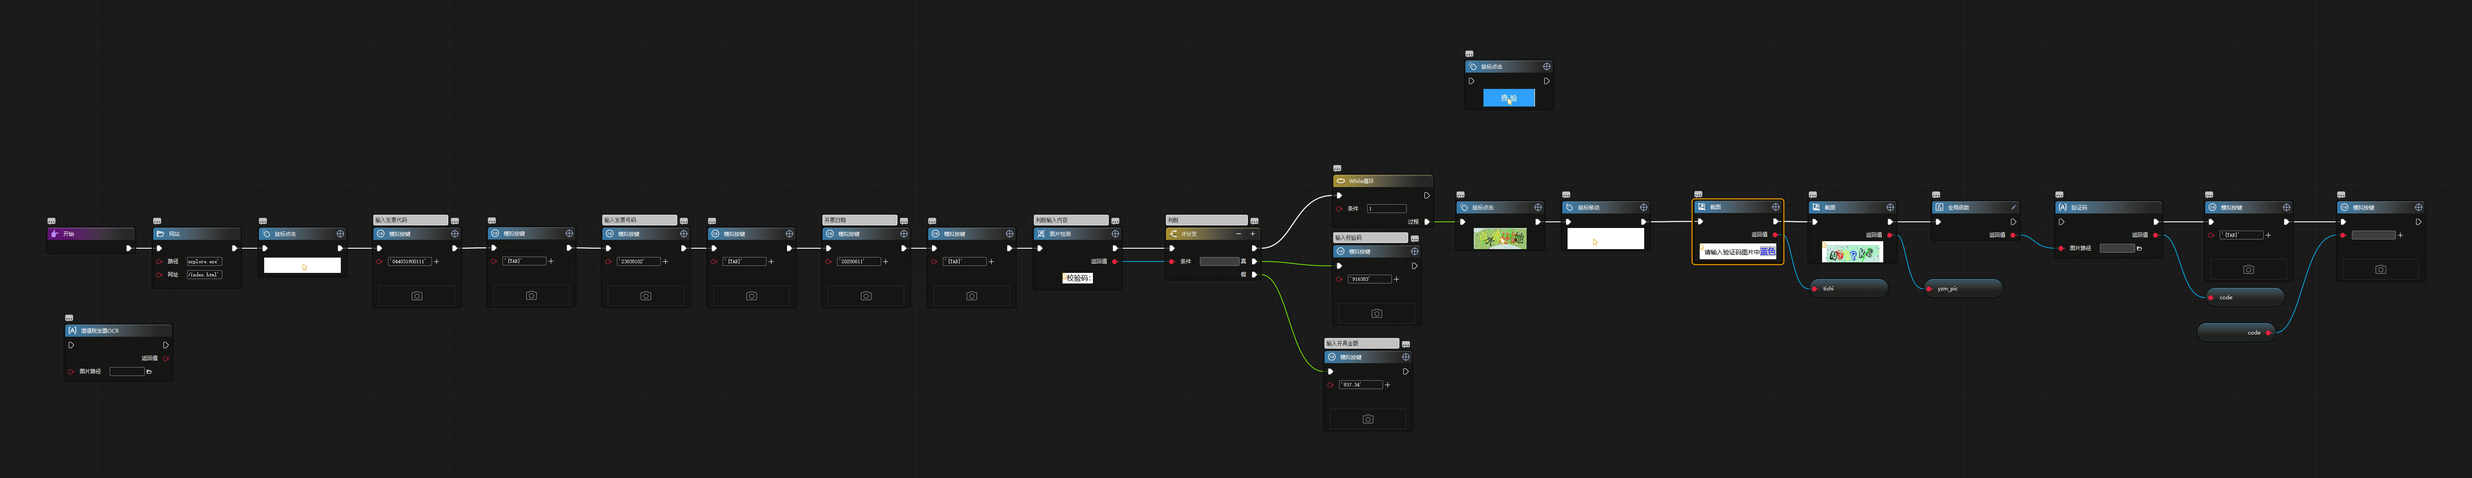
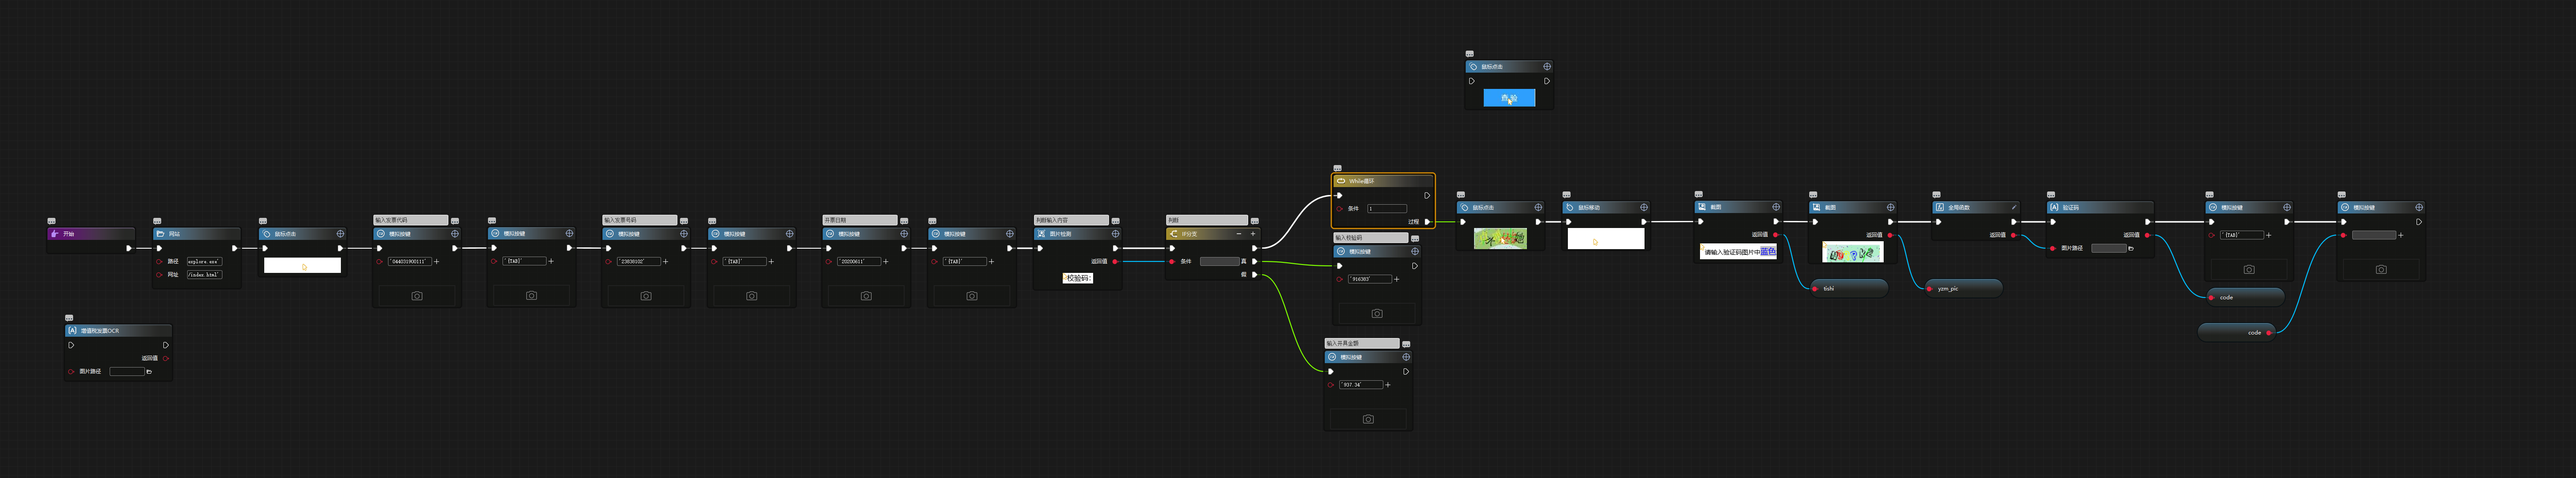
20200623152408

diff --git a/codes/Main.py b/codes/Main.py
@@ -1,5 +1,5 @@
 # coding=utf-8
-# 编译日期：2020-06-23 15:22:34
+# 编译日期：2020-06-23 15:24:07
 # 版权所有：www.i-search.com.cn
 import time
 import pdb
@@ -12,6 +12,8 @@ from ubpa.itools import rpa_import
 GlobalFun = rpa_import.import_global_fun(__file__)
 import ubpa.iie as iie
 import ubpa.iimg as iimg
+import ubpa.ikeyboard as ikeyboard
+import ubpa.iocr as iocr
 
 class lanhe_fapiao:
      
@@ -36,18 +38,42 @@ class lanhe_fapiao:
         code=None
         yzm_pic=None
         tishi=None
-        #RPACodeMarked.....2314353040452
-        # 截图
-        self.__logger.debug('Flow:flow1,StepNodeTag:2314353040452,Note:')
-        tishi = iimg.capture_image(win_title=r'国家税务总局全国增值税发票查验平台 - Internet Explorer',win_text=r'',left_indent=1253,top_indent=572,width=210,height=36,waitfor=30)
-        time.sleep(0.8)
-        # 截图
-        self.__logger.debug('Flow:flow1,StepNodeTag:2314360485954,Note:')
-        yzm_pic = iimg.capture_image(win_title=r'国家税务总局全国增值税发票查验平台 - Internet Explorer',win_text=r'',left_indent=992,top_indent=620,width=139,height=64,waitfor=30)
-        time.sleep(0.8)
-        # 自定义函数
-        self.__logger.debug('Flow:flow1,StepNodeTag:2314544729489,Note:')
-        tvar2314593469491 = GlobalFun.code_color(tishi,yzm_pic)
+        #RPACodeMarked.....2314350501348
+        # While循环
+        self.__logger.debug('Flow:flow1,StepNodeTag:2314350501348,Note:')
+        while 1:
+            # 鼠标点击
+            self.__logger.debug('Flow:flow1,StepNodeTag:23151109681113,Note:')
+            time.sleep(0.5)
+            iie.do_click_pos(win_title=r'国家税务总局全国增值税发票查验平台 - Internet Explorer',url=r'https://inv-veri.chinatax.gov.cn/index.html',selector=r'#yzm_img',button=r'left',curson=r'center',times=1,run_mode=r'unctrl',continue_on_error=r'break',waitfor=10)
+            time.sleep(0.5)
+            # 鼠标移动
+            self.__logger.debug('Flow:flow1,StepNodeTag:23151501542118,Note:')
+            iie.do_moveto_pos(win_title=r'国家税务总局全国增值税发票查验平台 - Internet Explorer',url=r'https://inv-veri.chinatax.gov.cn/index.html',selector=r'#content2 > TABLE:nth-of-type(1) > TBODY:nth-of-type(1) > TR:nth-of-type(6) > TD:nth-of-type(1)',curson=r'center',waitfor=10)
+            time.sleep(5)
+            # 截图
+            self.__logger.debug('Flow:flow1,StepNodeTag:2314353040452,Note:')
+            tishi = iimg.capture_image(win_title=r'国家税务总局全国增值税发票查验平台 - Internet Explorer',win_text=r'',left_indent=1253,top_indent=572,width=210,height=36,waitfor=30)
+            time.sleep(0.8)
+            # 截图
+            self.__logger.debug('Flow:flow1,StepNodeTag:2314360485954,Note:')
+            yzm_pic = iimg.capture_image(win_title=r'国家税务总局全国增值税发票查验平台 - Internet Explorer',win_text=r'',left_indent=992,top_indent=620,width=139,height=64,waitfor=30)
+            time.sleep(0.8)
+            # 自定义函数
+            self.__logger.debug('Flow:flow1,StepNodeTag:2314544729489,Note:')
+            tvar2314544729489 = GlobalFun.code_color(tishi,yzm_pic)
+            #验证码
+            self.__logger.debug('Flow:flow1,StepNodeTag:2314593469491,Note:')
+            code = iocr.vcode_recognize(image_path=tvar2314544729489,code_type=8001,apiKey='8159a500cc9d4a69a71e6ac14263f029',secretKey='2d078aa8c13741239b3d00ced85832e3')
+            time.sleep(1)
+            # 键盘输入
+            self.__logger.debug('Flow:flow1,StepNodeTag:23150732813107,Note:')
+            time.sleep(0.5)
+            ikeyboard.key_send_cs(text='{TAB}',waitfor=10)
+            # 键盘输入
+            self.__logger.debug('Flow:flow1,StepNodeTag:23150746702109,Note:')
+            time.sleep(0.5)
+            ikeyboard.key_send_cs(text=code,waitfor=10)
       
     def Main(self):
         pass

diff --git a/codes/Main_d.py b/codes/Main_d.py
@@ -1,5 +1,5 @@
 # coding=utf-8
-# 编译日期：2020-06-23 15:22:34
+# 编译日期：2020-06-23 15:24:07
 # 版权所有：www.i-search.com.cn
 import time
 import pdb
@@ -12,6 +12,8 @@ from ubpa.itools import rpa_import
 GlobalFun = rpa_import.import_global_fun(__file__)
 import ubpa.iie as iie
 import ubpa.iimg as iimg
+import ubpa.ikeyboard as ikeyboard
+import ubpa.iocr as iocr
 
 class lanhe_fapiao:
      
@@ -36,18 +38,42 @@ class lanhe_fapiao:
         code=None
         yzm_pic=None
         tishi=None
-        #RPACodeMarked.....2314353040452
-        # 截图
-        self.__logger.debug('Flow:flow1,StepNodeTag:2314353040452,Note:')
-        tishi = iimg.capture_image(win_title=r'国家税务总局全国增值税发票查验平台 - Internet Explorer',win_text=r'',left_indent=1253,top_indent=572,width=210,height=36,waitfor=30)
-        time.sleep(0.8)
-        # 截图
-        self.__logger.debug('Flow:flow1,StepNodeTag:2314360485954,Note:')
-        yzm_pic = iimg.capture_image(win_title=r'国家税务总局全国增值税发票查验平台 - Internet Explorer',win_text=r'',left_indent=992,top_indent=620,width=139,height=64,waitfor=30)
-        time.sleep(0.8)
-        # 自定义函数
-        self.__logger.debug('Flow:flow1,StepNodeTag:2314544729489,Note:')
-        tvar2314593469491 = GlobalFun.code_color(tishi,yzm_pic)
+        #RPACodeMarked.....2314350501348
+        # While循环
+        self.__logger.debug('Flow:flow1,StepNodeTag:2314350501348,Note:')
+        while 1:
+            # 鼠标点击
+            self.__logger.debug('Flow:flow1,StepNodeTag:23151109681113,Note:')
+            time.sleep(0.5)
+            iie.do_click_pos(win_title=r'国家税务总局全国增值税发票查验平台 - Internet Explorer',url=r'https://inv-veri.chinatax.gov.cn/index.html',selector=r'#yzm_img',button=r'left',curson=r'center',times=1,run_mode=r'unctrl',continue_on_error=r'break',waitfor=10)
+            time.sleep(0.5)
+            # 鼠标移动
+            self.__logger.debug('Flow:flow1,StepNodeTag:23151501542118,Note:')
+            iie.do_moveto_pos(win_title=r'国家税务总局全国增值税发票查验平台 - Internet Explorer',url=r'https://inv-veri.chinatax.gov.cn/index.html',selector=r'#content2 > TABLE:nth-of-type(1) > TBODY:nth-of-type(1) > TR:nth-of-type(6) > TD:nth-of-type(1)',curson=r'center',waitfor=10)
+            time.sleep(5)
+            # 截图
+            self.__logger.debug('Flow:flow1,StepNodeTag:2314353040452,Note:')
+            tishi = iimg.capture_image(win_title=r'国家税务总局全国增值税发票查验平台 - Internet Explorer',win_text=r'',left_indent=1253,top_indent=572,width=210,height=36,waitfor=30)
+            time.sleep(0.8)
+            # 截图
+            self.__logger.debug('Flow:flow1,StepNodeTag:2314360485954,Note:')
+            yzm_pic = iimg.capture_image(win_title=r'国家税务总局全国增值税发票查验平台 - Internet Explorer',win_text=r'',left_indent=992,top_indent=620,width=139,height=64,waitfor=30)
+            time.sleep(0.8)
+            # 自定义函数
+            self.__logger.debug('Flow:flow1,StepNodeTag:2314544729489,Note:')
+            tvar2314544729489 = GlobalFun.code_color(tishi,yzm_pic)
+            #验证码
+            self.__logger.debug('Flow:flow1,StepNodeTag:2314593469491,Note:')
+            code = iocr.vcode_recognize(image_path=tvar2314544729489,code_type=8001,apiKey='8159a500cc9d4a69a71e6ac14263f029',secretKey='2d078aa8c13741239b3d00ced85832e3')
+            time.sleep(1)
+            # 键盘输入
+            self.__logger.debug('Flow:flow1,StepNodeTag:23150732813107,Note:')
+            time.sleep(0.5)
+            ikeyboard.key_send_cs(text='{TAB}',waitfor=10)
+            # 键盘输入
+            self.__logger.debug('Flow:flow1,StepNodeTag:23150746702109,Note:')
+            time.sleep(0.5)
+            ikeyboard.key_send_cs(text=code,waitfor=10)
       
     def Main(self):
         pass
